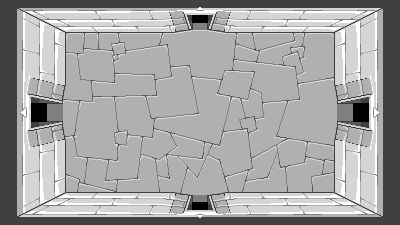
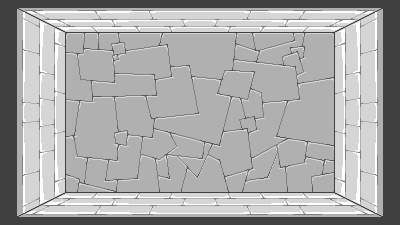
Door Update (#3)
- Added door textures
- Placed doors in the room

diff --git a/src/room_builder.py b/src/room_builder.py
@@ -1,5 +1,6 @@
-from seika.node import Node, CollisionShape2D
+from seika.node import Node, CollisionShape2D, Sprite
 from seika.math import Vector2, Rect2
+from seika.assets import Texture
 
 from src.project_properties import ProjectProperties
 
@@ -36,7 +37,23 @@ class WallColliders:
         ]
 
     def update_wall_positions(self, position: Vector2) -> None:
-        pass
+        for wall_collider in self.walls:
+            wall_collider.position = position
+
+
+class DungeonDoors:
+    def __init__(
+        self,
+        left: CollisionShape2D,
+        right: CollisionShape2D,
+        up: CollisionShape2D,
+        down: CollisionShape2D,
+    ):
+        self.left = left
+        self.right = right
+        self.up = up
+        self.down = down
+        self.doors = [left, right, up, down]
 
 
 class RoomBuilder:
@@ -68,3 +85,76 @@ class RoomBuilder:
         for wall_collider in wall_colliders.walls:
             wall_collider.tags = ["wall"]
             node.add_child(child_node=wall_collider)
+
+    @staticmethod
+    def create_doors(node: Node) -> None:
+        current_doors = DungeonDoors(
+            left=CollisionShape2D.new(),
+            right=CollisionShape2D.new(),
+            up=CollisionShape2D.new(),
+            down=CollisionShape2D.new(),
+        )
+        # transition_doors = DungeonDoors(
+        #     left=CollisionShape2D.new(),
+        #     right=CollisionShape2D.new(),
+        #     up=CollisionShape2D.new(),
+        #     down=CollisionShape2D.new(),
+        # )
+
+        left_door_texture = Texture.get("assets/images/dungeon/door_left_open.png")
+        right_door_texture = Texture.get("assets/images/dungeon/door_right_open.png")
+        up_door_texture = Texture.get("assets/images/dungeon/door_up_open.png")
+        down_door_texture = Texture.get("assets/images/dungeon/door_down_open.png")
+
+        for left_door in [current_doors.left]:
+            left_door.position = Vector2(22, 74)
+            left_door.z_index = 1
+            left_door.collider_rect = Rect2(
+                0, 0, left_door_texture.width, left_door_texture.height
+            )
+            node.add_child(child_node=left_door)
+            sprite = Sprite.new()
+            sprite.draw_source = Rect2(
+                0, 0, left_door_texture.width, left_door_texture.height
+            )
+            sprite.texture = left_door_texture
+            left_door.add_child(child_node=sprite)
+        for right_door in [current_doors.right]:
+            right_door.position = Vector2(334, 74)
+            right_door.z_index = 1
+            right_door.collider_rect = Rect2(
+                0, 0, right_door_texture.width, right_door_texture.height
+            )
+            node.add_child(child_node=right_door)
+            sprite = Sprite.new()
+            sprite.draw_source = Rect2(
+                0, 0, right_door_texture.width, right_door_texture.height
+            )
+            sprite.texture = right_door_texture
+            right_door.add_child(child_node=sprite)
+        for up_door in [current_doors.up]:
+            up_door.position = Vector2(168, 8)
+            up_door.z_index = 1
+            up_door.collider_rect = Rect2(
+                0, 0, up_door_texture.width, up_door_texture.height
+            )
+            node.add_child(child_node=up_door)
+            sprite = Sprite.new()
+            sprite.draw_source = Rect2(
+                0, 0, up_door_texture.width, up_door_texture.height
+            )
+            sprite.texture = up_door_texture
+            up_door.add_child(child_node=sprite)
+        for down_door in [current_doors.down]:
+            down_door.position = Vector2(168, 190)
+            down_door.z_index = 1
+            down_door.collider_rect = Rect2(
+                0, 0, down_door_texture.width, down_door_texture.height
+            )
+            node.add_child(child_node=down_door)
+            sprite = Sprite.new()
+            sprite.draw_source = Rect2(
+                0, 0, down_door_texture.width, down_door_texture.height
+            )
+            sprite.texture = down_door_texture
+            down_door.add_child(child_node=sprite)

diff --git a/src/main.py b/src/main.py
@@ -17,6 +17,7 @@ class Main(Node2D):
         )
         # Setup Initial Room
         RoomBuilder.create_wall_colliders(node=self)
+        RoomBuilder.create_doors(node=self)
 
     def _physics_process(self, delta: float) -> None:
         self.world.cached_delta = delta
